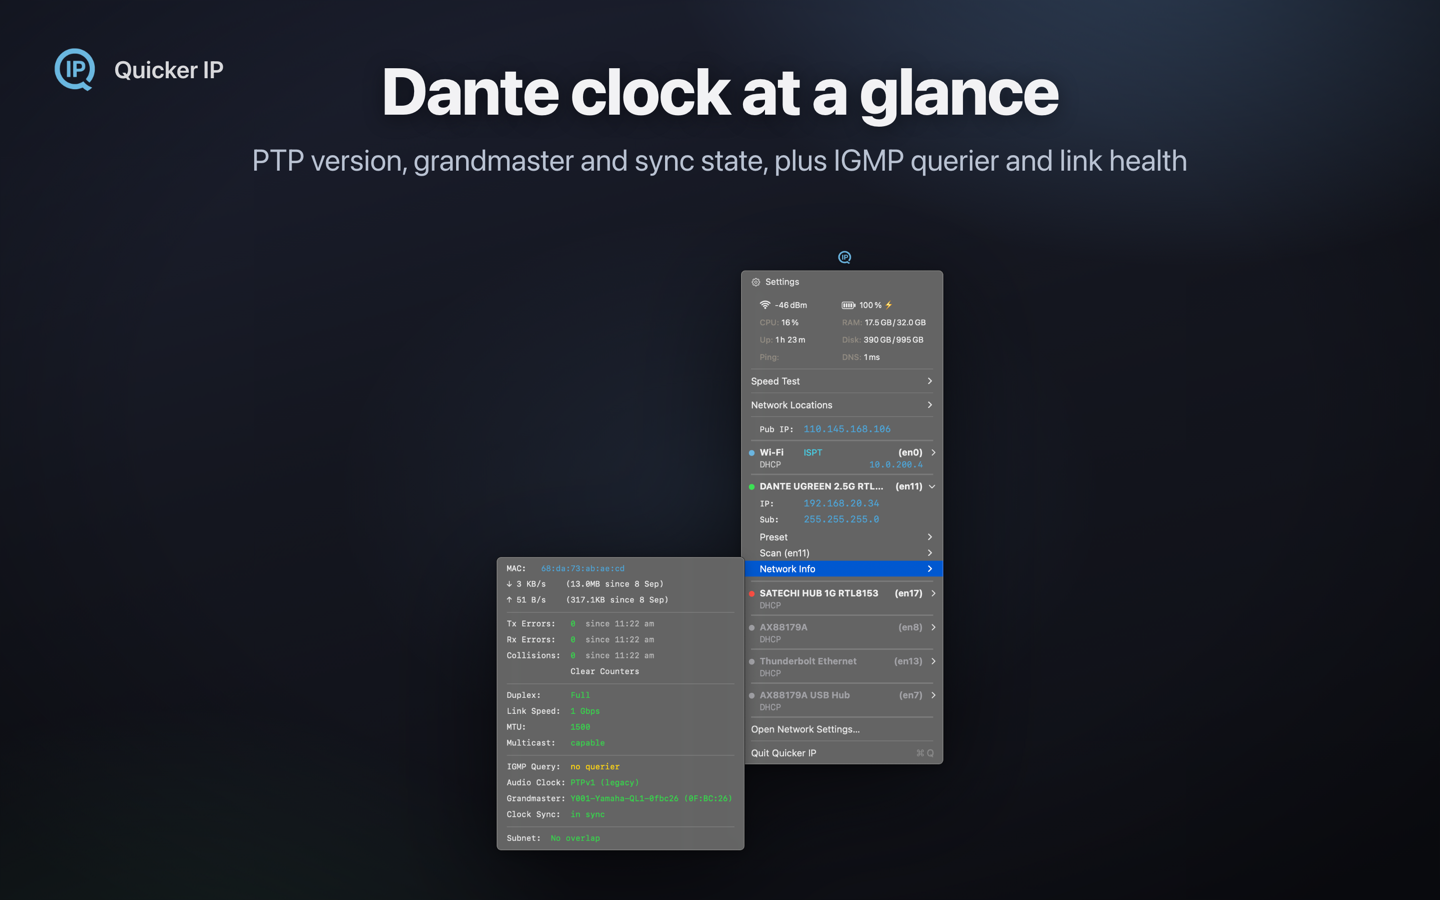
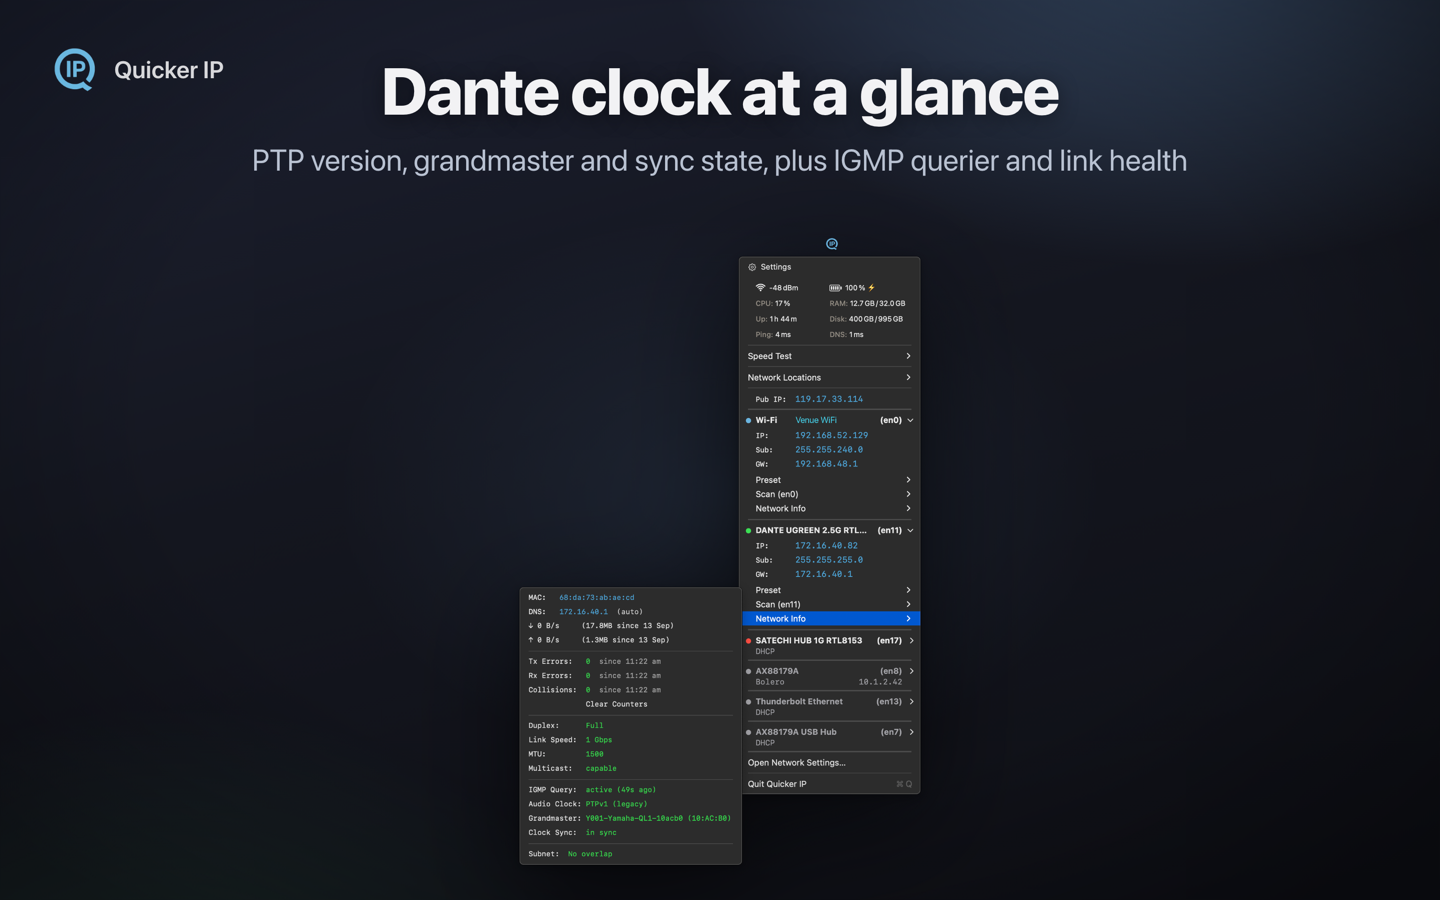
Quicker IP page: reshot Dante clock frame with charcoal panels

Changed region(s): [[0.3438, 0.28, 0.6562, 0.9644]]

diff --git a/quickerip/index.html b/quickerip/index.html
@@ -126,7 +126,7 @@
                 <h3>See the clock before you chase a dropout</h3>
                 <p>Hover the Dante adapter for PTP version, grandmaster and sync state, with IGMP querier and link health alongside.</p>
             </div>
-            <img src="images/frame-8.png" alt="Quicker IP Dante clock and IGMP querier readout">
+            <img src="images/frame-8.png?v=2" alt="Quicker IP Dante clock and IGMP querier readout">
         </div>
 
         <div class="fblock">
